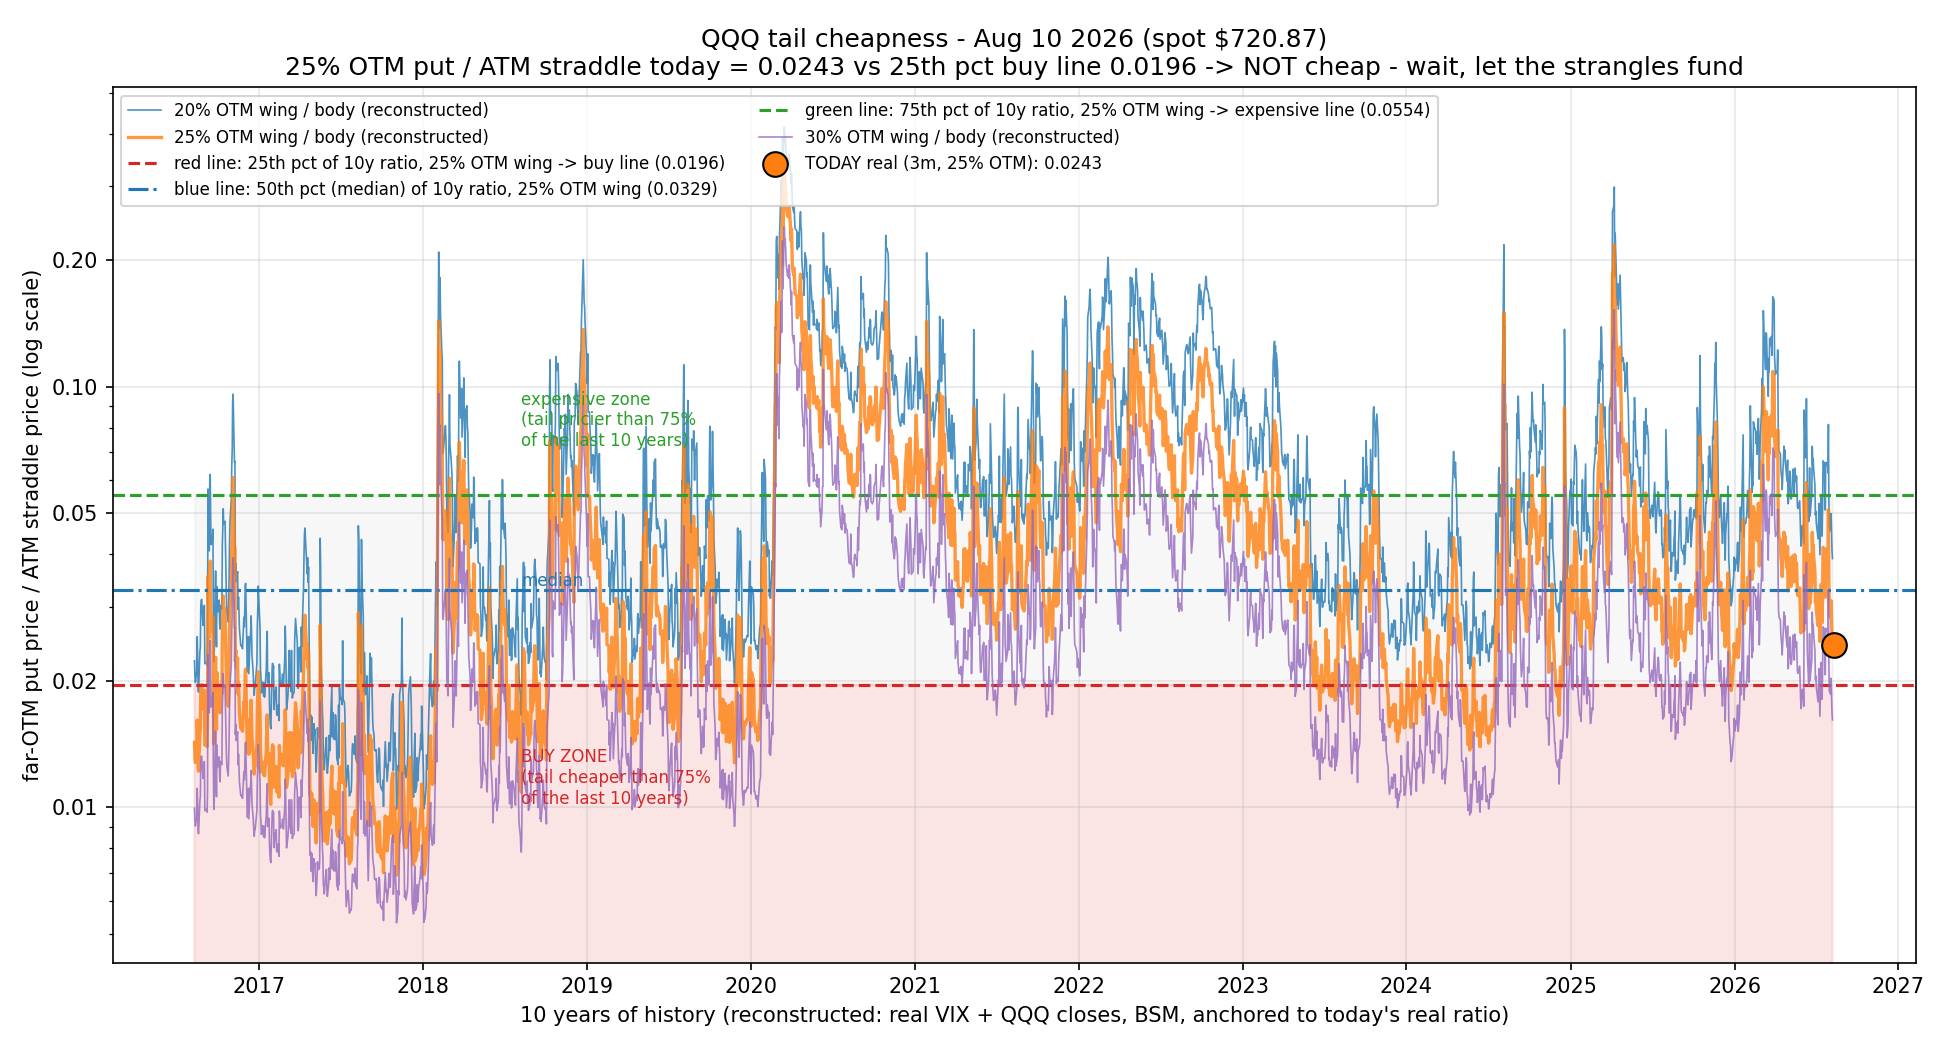
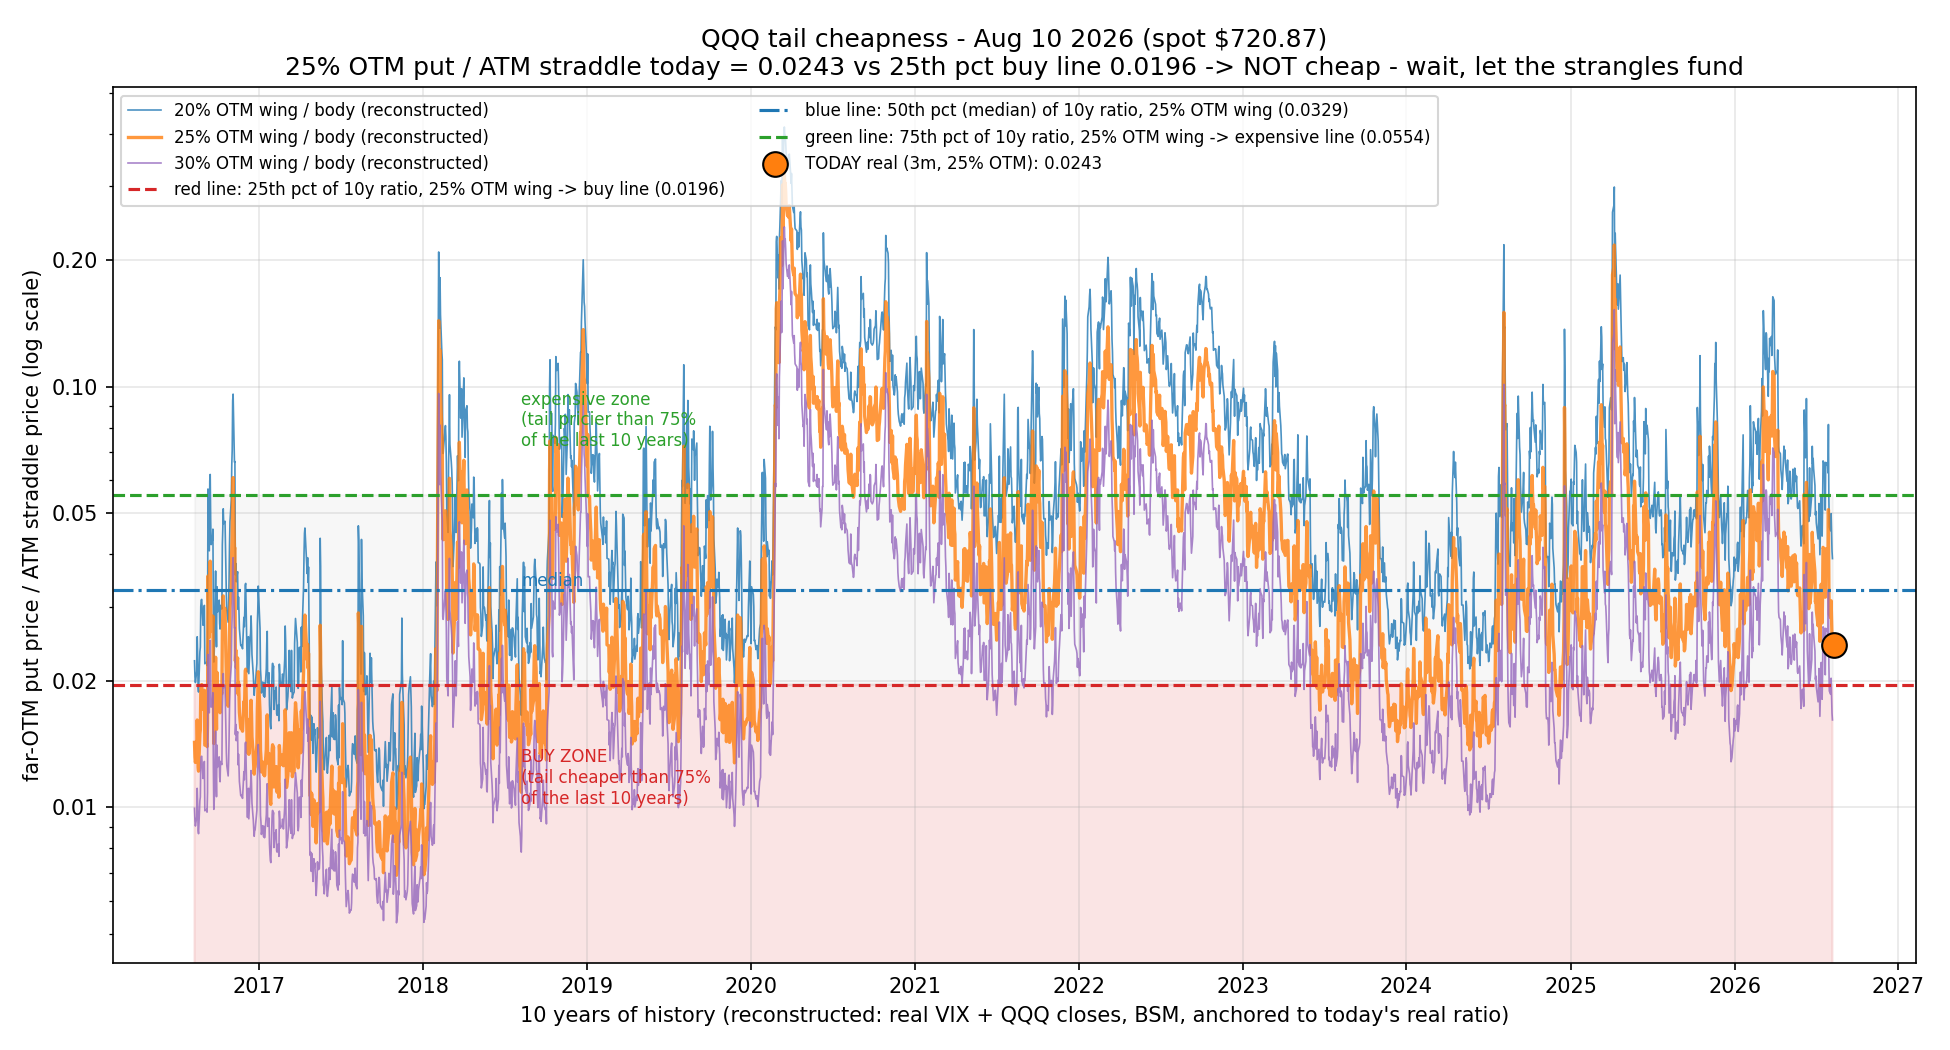
refactor plot tail cheapness

Changed region(s): [[0.4, 0.0914, 0.7385, 0.1524], [0.0615, 0.1524, 0.3692, 0.1829]]

diff --git a/fentu/pricingservices/tail_plot.py b/fentu/pricingservices/tail_plot.py
@@ -137,48 +137,74 @@ def anchored_series(hist, quotes):
 def plot_tail_cheapness(save_path=None):
     hist, quotes = historical_ratios()
     anchor, series = anchored_series(hist, quotes)
-    fig, ax = plt.subplots(figsize=(13, 7))
     today = date.today()
     if save_path is None:
         save_path = f"figures/tail_cheapness_{today.strftime('%b').lower()}{today.day}_{today.year}.png"
 
+    fig, ax = plt.subplots(figsize=(13, 7))
+    today_ratio = quotes["3m"]["wing"][DECISION_LEVEL] / quotes["3m"]["straddle"]
+
+    _plot_wing_series(ax, series)
+    q25 = _plot_decision_annotations(ax, series)
+    _plot_today_marker(ax, today_ratio)
+    verdict = _verdict(today_ratio, q25)
+    _decorate_axes(ax, quotes, today, today_ratio, q25, verdict)
+
+    fig.tight_layout()
+    fig.savefig(save_path, dpi=150)
+    print(f"saved {save_path}")
+    return save_path, today_ratio, q25
+
+
+def _plot_wing_series(ax, series):
     for pct in WING_LEVELS:
         sr = series[pct]
-        dates = [d for d, r in sr]
-        vals = [r for d, r in sr if math.isfinite(r)]
         color = LEVEL_COLORS[pct]
         lw = 1.6 if pct == DECISION_LEVEL else 0.8
-        ax.plot(dates, [r for d, r in sr], lw=lw, color=color, alpha=0.8, label=f"{int(pct*100)}% OTM wing / body (reconstructed)")
+        ax.plot([d for d, r in sr], [r for d, r in sr], lw=lw, color=color, alpha=0.8, label=f"{int(pct*100)}% OTM wing / body (reconstructed)")
 
-        if pct == DECISION_LEVEL:
-            q25 = percentile(vals, 25)
-            q50 = percentile(vals, 50)
-            q75 = percentile(vals, 75)
-            ax.axhline(q25, color="#d62728", ls="--", lw=1.5, label=f"red line: 25th pct of 10y ratio, {int(pct*100)}% OTM wing -> buy line ({q25:.4f})")
-            ax.axhline(q50, color="#1f77b4", ls="-.", lw=1.5, label=f"blue line: 50th pct (median) of 10y ratio, {int(pct*100)}% OTM wing ({q50:.4f})")
-            ax.axhline(q75, color="#2ca02c", ls="--", lw=1.5, label=f"green line: 75th pct of 10y ratio, {int(pct*100)}% OTM wing -> expensive line ({q75:.4f})")
-            ax.fill_between(dates, 0, q25, color="#d62728", alpha=0.12)
-            ax.fill_between(dates, q25, q75, color="#cccccc", alpha=0.15)
-            ax.text(dates[len(dates) // 5], q25 * 0.6, "BUY ZONE\n(tail cheaper than 75%\nof the last 10 years)", color="#d62728", fontsize=8, va="center")
-            ax.text(dates[len(dates) // 5], q50, "median", color="#1f77b4", fontsize=8, va="bottom")
-            ax.text(dates[len(dates) // 5], q75 * 1.5, "expensive zone\n(tail pricier than 75%\nof the last 10 years)", color="#2ca02c", fontsize=8, va="center")
 
-    real_ratio = quotes["3m"]["wing"][DECISION_LEVEL] / quotes["3m"]["straddle"]
+def _plot_decision_annotations(ax, series):
+    """Buy/expensive bands and zone labels for the decision wing. Returns the 25th-pct buy line."""
+    sr = series[DECISION_LEVEL]
+    dates = [d for d, r in sr]
+    vals = [r for d, r in sr if math.isfinite(r)]
+    q25 = percentile(vals, 25)
+    q50 = percentile(vals, 50)
+    q75 = percentile(vals, 75)
+    for text, y, color, dash in [
+        (f"red line: 25th pct of 10y ratio, {int(DECISION_LEVEL*100)}% OTM wing -> buy line ({q25:.4f})", q25, "#d62728", "--"),
+        (f"blue line: 50th pct (median) of 10y ratio, {int(DECISION_LEVEL*100)}% OTM wing ({q50:.4f})", q50, "#1f77b4", "-."),
+        (f"green line: 75th pct of 10y ratio, {int(DECISION_LEVEL*100)}% OTM wing -> expensive line ({q75:.4f})", q75, "#2ca02c", "--"),
+    ]:
+        ax.axhline(y, color=color, ls=dash, lw=1.5, label=text)
+    ax.fill_between(dates, 0, q25, color="#d62728", alpha=0.12)
+    ax.fill_between(dates, q25, q75, color="#cccccc", alpha=0.15)
+    x_text = dates[len(dates) // 5]
+    ax.text(x_text, q25 * 0.6, "BUY ZONE\n(tail cheaper than 75%\nof the last 10 years)", color="#d62728", fontsize=8, va="center")
+    ax.text(x_text, q50, "median", color="#1f77b4", fontsize=8, va="bottom")
+    ax.text(x_text, q75 * 1.5, "expensive zone\n(tail pricier than 75%\nof the last 10 years)", color="#2ca02c", fontsize=8, va="center")
+    return q25
+
+
+def _plot_today_marker(ax, today_ratio):
     ax.scatter(
         [date.today()],
-        [real_ratio],
+        [today_ratio],
         marker="o",
         s=140,
         color=LEVEL_COLORS[DECISION_LEVEL],
         edgecolors="black",
         zorder=5,
-        label=f"TODAY real (3m, {int(DECISION_LEVEL*100)}% OTM): {real_ratio:.4f}",
+        label=f"TODAY real (3m, {int(DECISION_LEVEL*100)}% OTM): {today_ratio:.4f}",
     )
 
-    today_ratio = quotes["3m"]["wing"][DECISION_LEVEL] / quotes["3m"]["straddle"]
-    vals_decision = [r * anchor[("3m", DECISION_LEVEL)] for d, p_, r in hist["3m"] if p_ == DECISION_LEVEL and math.isfinite(r)]
-    q25 = percentile(vals_decision, 25)
-    verdict = "CHEAP - buy the tail" if today_ratio < q25 else "NOT cheap - wait, let the strangles fund"
+
+def _verdict(today_ratio, q25):
+    return "CHEAP - buy the tail" if today_ratio < q25 else "NOT cheap - wait, let the strangles fund"
+
+
+def _decorate_axes(ax, quotes, today, today_ratio, q25, verdict):
     ax.set_title(
         f"QQQ tail cheapness - {today.strftime('%b')} {today.day} {today.year} (spot ${quotes['3m']['spot']:.2f})\n"
         f"{int(DECISION_LEVEL*100)}% OTM put / ATM straddle today = {today_ratio:.4f} vs 25th pct buy line {q25:.4f} -> {verdict}"
@@ -190,10 +216,6 @@ def plot_tail_cheapness(save_path=None):
     ax.get_yaxis().set_major_formatter(matplotlib.ticker.FormatStrFormatter("%.2f"))
     ax.legend(loc="upper left", fontsize=8, ncol=2)
     ax.grid(alpha=0.3)
-    fig.tight_layout()
-    fig.savefig(save_path, dpi=150)
-    print(f"saved {save_path}")
-    return save_path, today_ratio, q25
 
 
 if __name__ == "__main__":
